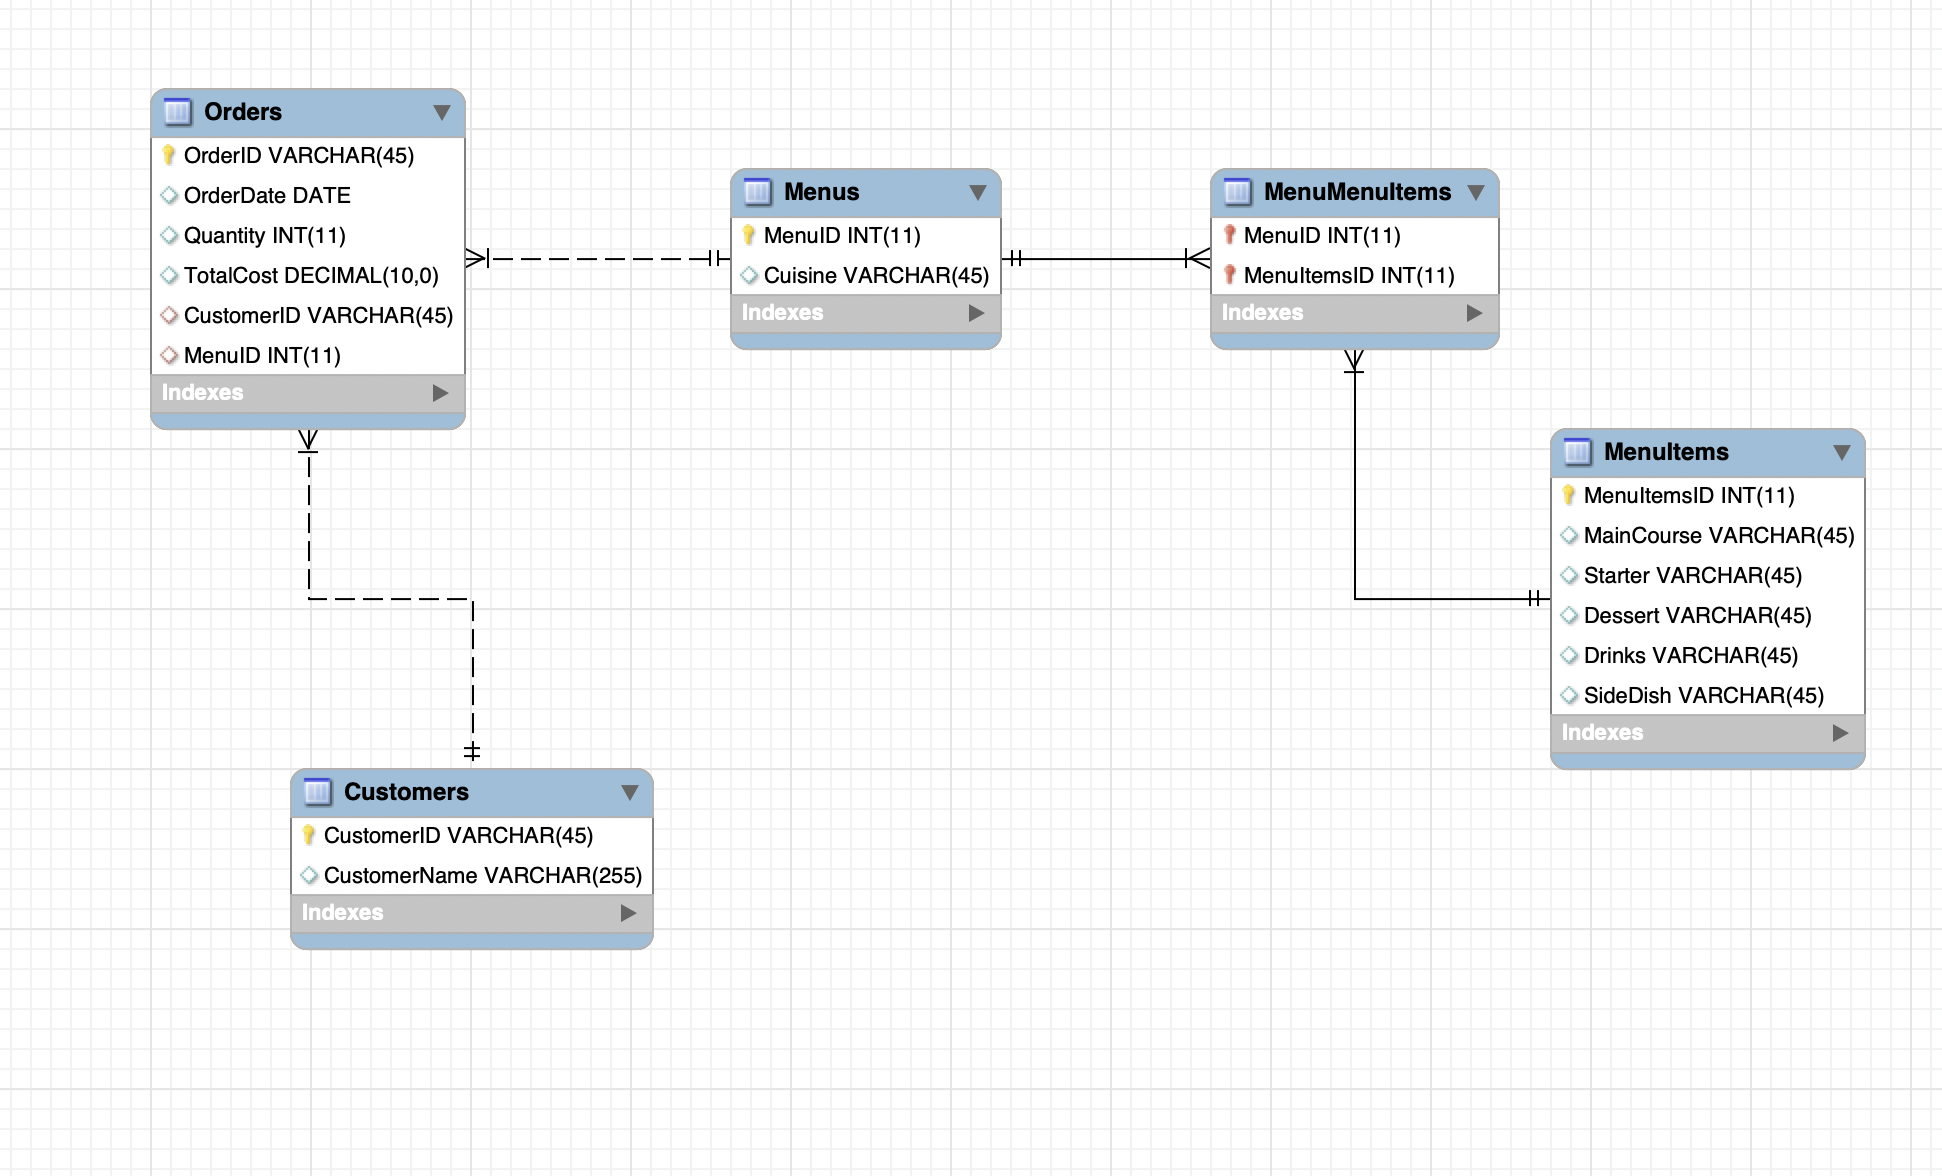
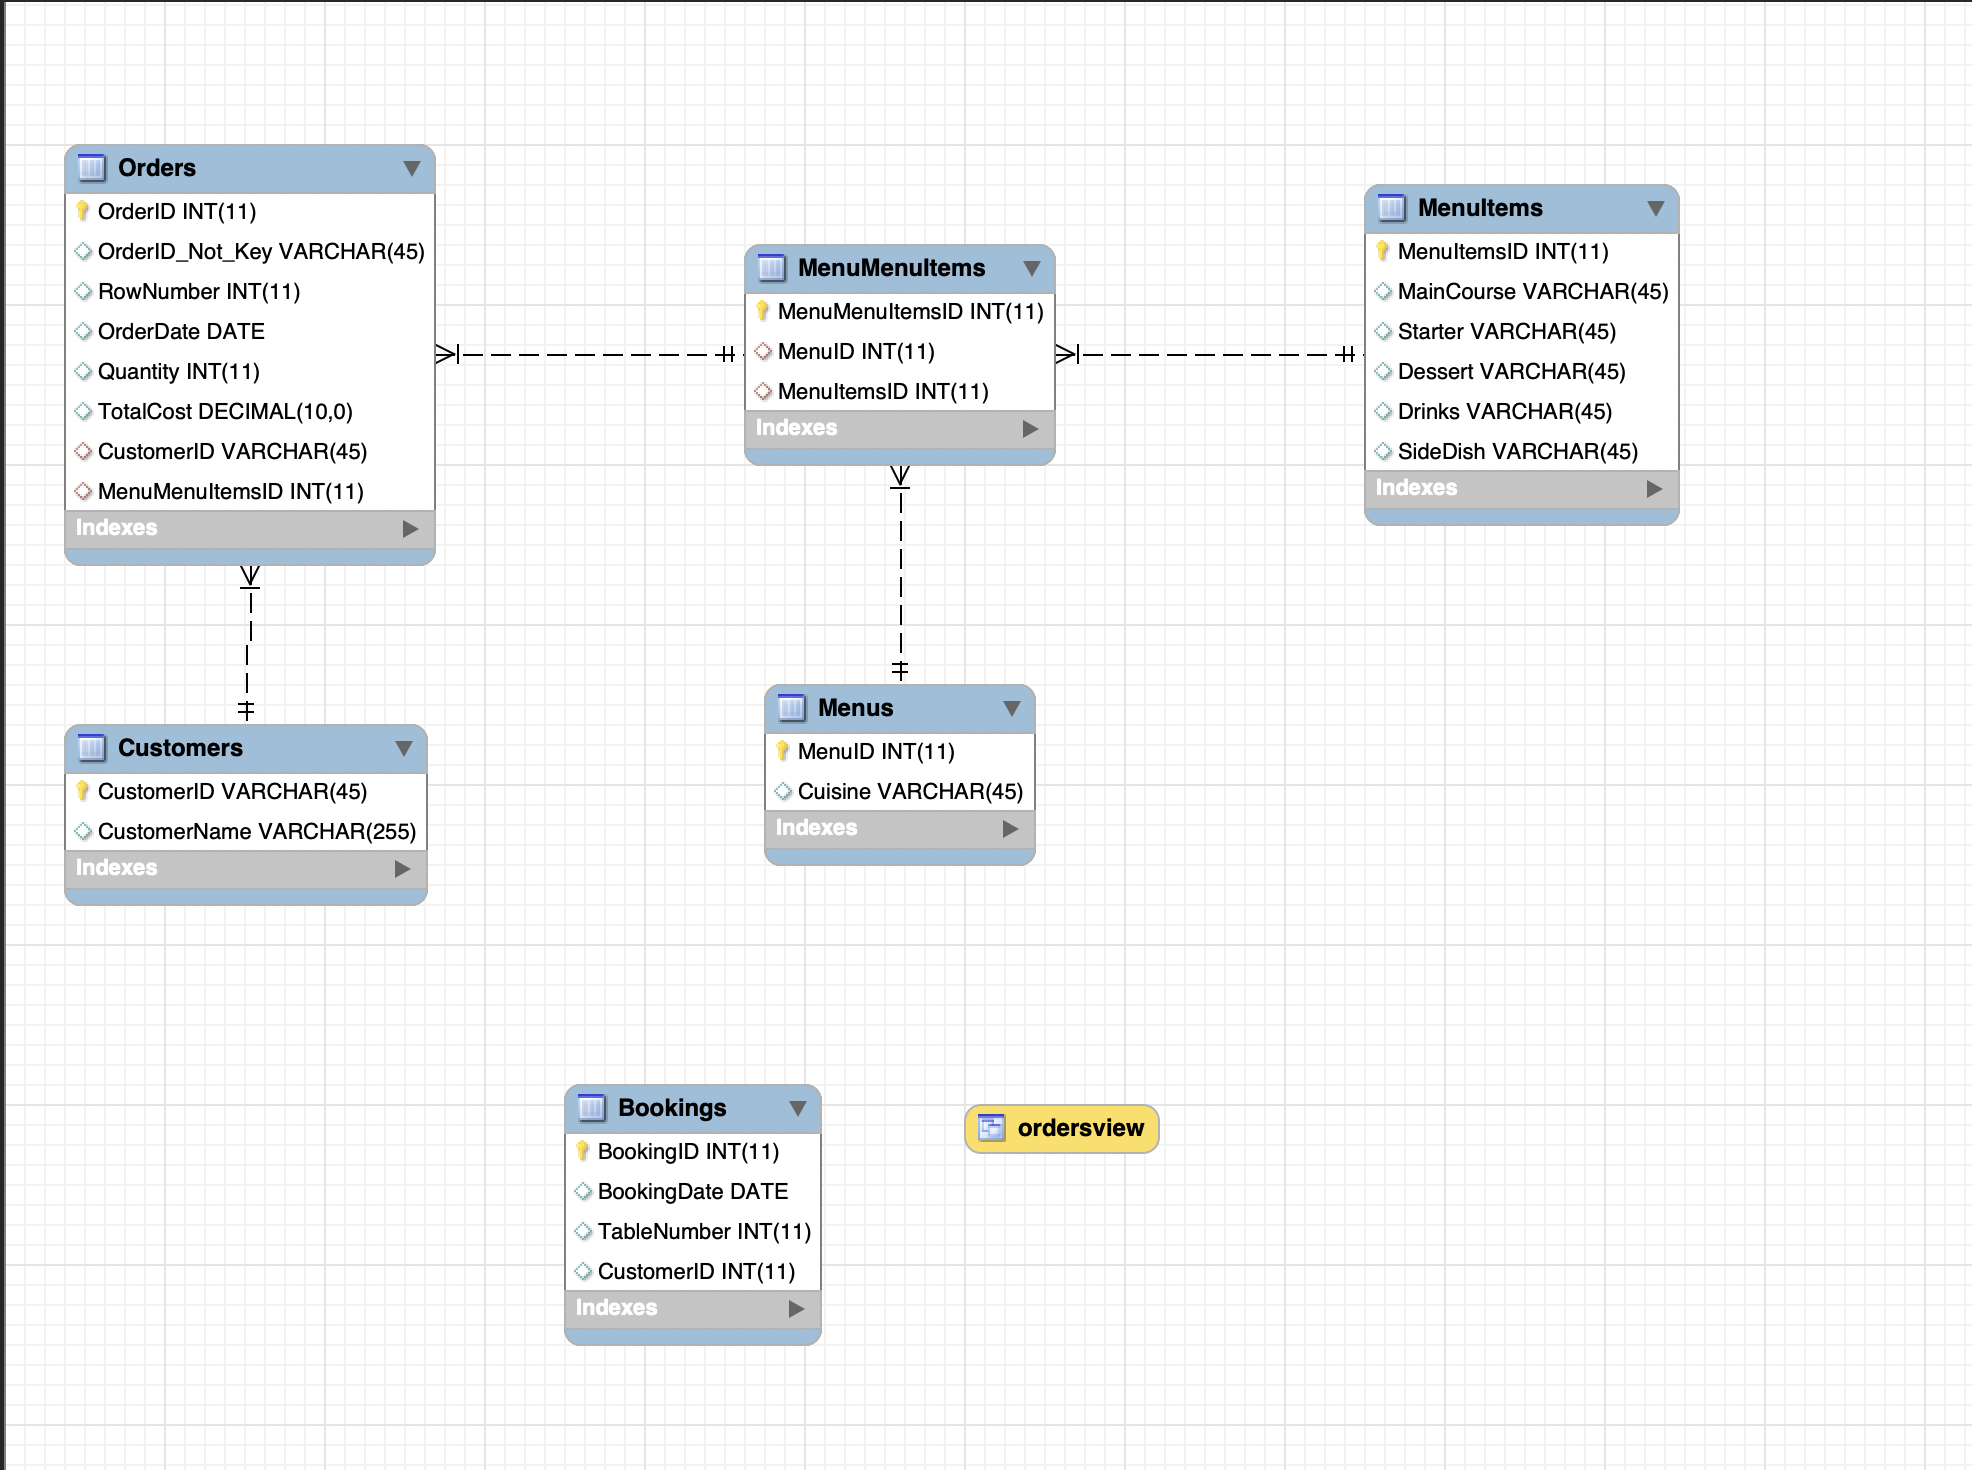
Updating Schema to incorporate Week2 changes.

diff --git a/README.md b/README.md
@@ -87,6 +87,10 @@ Need to set up a booking system to keep track of which guests are visiting the r
 
 ### Implementation
 
+#### 5th September 2023 - Week 2
+
+1. __Updated__ Schema to reflect the new table (Bookings) and View (OrdersView) from week2.
+
 #### 4th September 2023 - Week 2
 
 1. __Moved__ all queries to week2.sql
